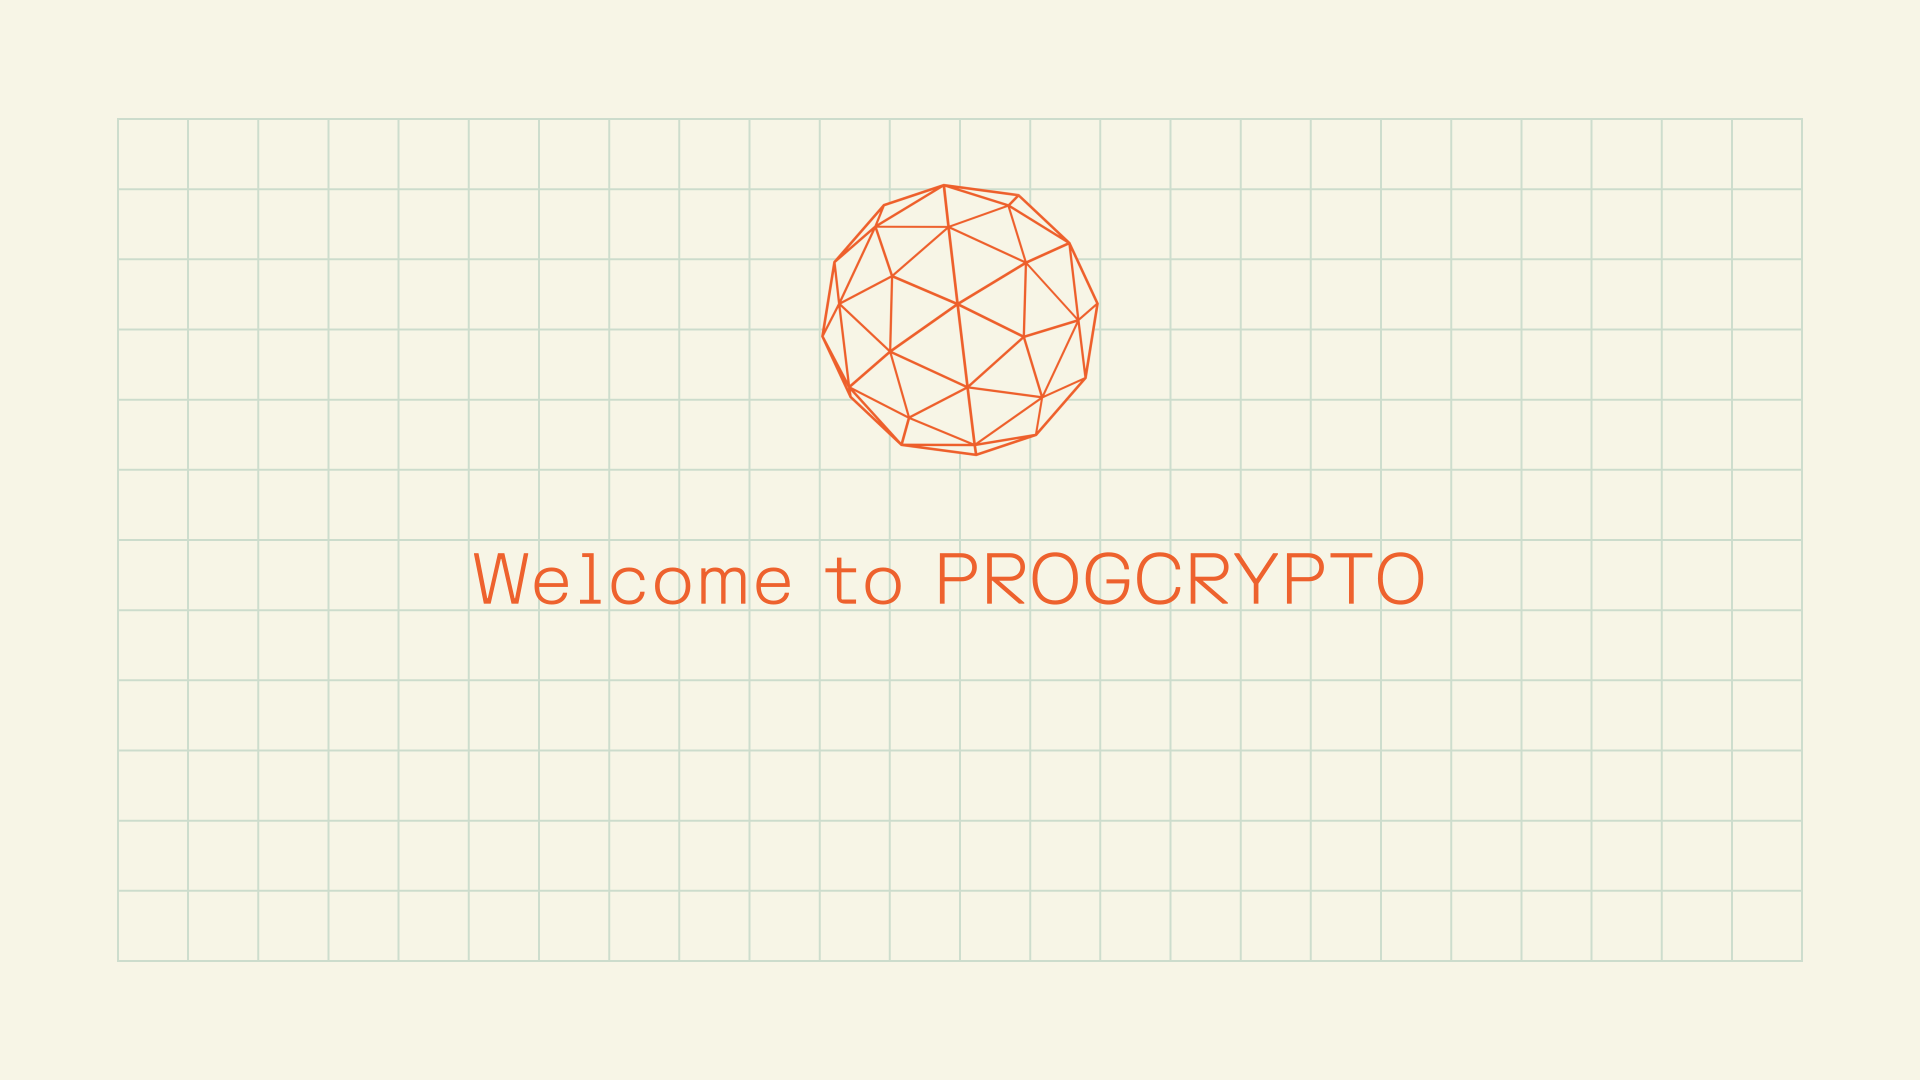
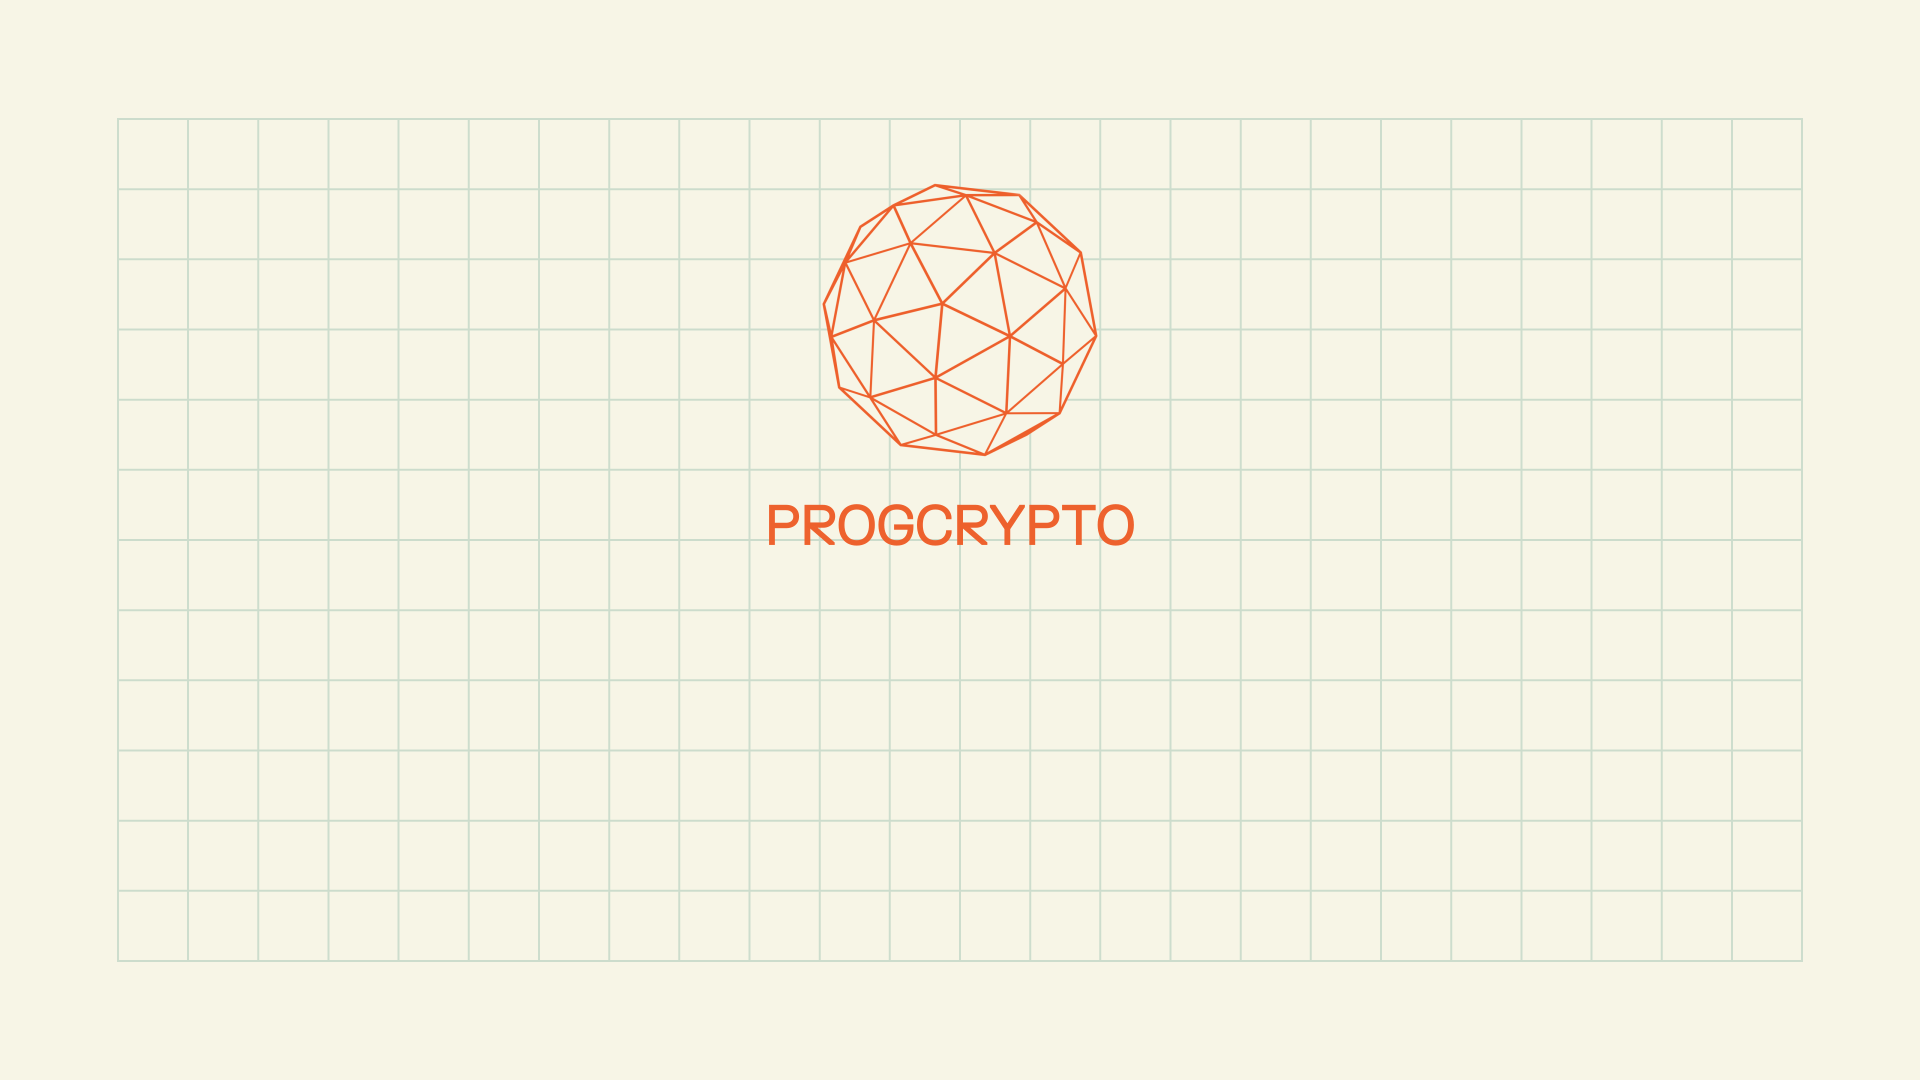
BG Changes to PROGCrypto

Changed region(s): [[0.25, 0.4583, 0.75, 0.5806], [0.4062, 0.1528, 0.5938, 0.4278]]

diff --git a/packages/tools/src/scripts/0xparc.ts b/packages/tools/src/scripts/0xparc.ts
@@ -1,0 +1,246 @@
+import { join } from 'path'
+import { bundle } from '@remotion/bundler'
+import { webpackOverride } from '../webpack-override'
+import { RenderMediaOnProgress, getCompositions, selectComposition, renderMedia, renderStill } from '@remotion/renderer'
+import { CONFIG } from 'utils/config'
+import { FileExists, UploadDrive, UploadOrUpdate } from 'services/slides'
+import { existsSync, mkdirSync, statSync } from 'fs'
+import { DevconnectEvents } from 'compositions/autonamous_worlds_assembly'
+
+const force = process.argv.slice(2).includes('--force')
+const local = process.argv.slice(2).includes('--local')
+const processArgs = process.argv.slice(2).filter(i => !i.startsWith('--'))
+const apiBaseUri = local ? 'http://localhost:3000/api' : 'https://app.streameth.org/api'
+const devconnectEvents = DevconnectEvents.map(i => ({ ...i, id: i.id.replaceAll('-', '_') }))
+
+start(processArgs)
+  .then(() => {
+    process.exit(0)
+  })
+  .catch((err) => {
+    console.log(err)
+    process.exit(1)
+  })
+
+async function start(args: string[]) {
+  console.log(`Run Remotion renderer in ${CONFIG.NODE_ENV} mode..`)
+  console.log('- API base uri', apiBaseUri)
+  console.log('- force rendering', force)
+
+  const res = await fetch(`${apiBaseUri}/events`)
+  let events = (await res.json()).filter((i: any) => i.archiveMode === false)
+    // filter for Devconnect events
+    .filter((event: any) => devconnectEvents.some(i => i.id === event.id)) // event.organizationId === 'devconnect'
+
+  console.log()
+  console.log('Events to render..')
+  events.forEach((i: any) => console.log('-', i.id))
+  console.log()
+
+  if (args.length > 0) {
+    const event = args[0]
+    events = events.filter((e: any) => e.id === event)
+  }
+
+  for (const event of events) {
+    await generateEventAssets(event)
+  }
+}
+
+async function generateEventAssets(event: any) {
+  console.log(`Generating assets for ${event.id}..`)
+  const bundled = await bundle({
+    entryPoint: join(process.cwd(), 'src', 'index.ts'),
+    webpackOverride: (config) => webpackOverride(config),
+  })
+
+  const compositions = (await getCompositions(bundled)).filter((c) => c.id.includes(event.id) || c.id.includes(event.id.replaceAll('_', '-')))
+  if (compositions.length === 0) {
+    console.log('No compositions found. Skip rendering')
+    return
+  }
+
+  const res = await fetch(`${apiBaseUri}/organizations/${event.organizationId}/events/${event.id}/sessions`)
+  const sessions = await res.json()
+  if (sessions.length === 0) {
+    console.log('No sessions found. Skip rendering')
+    return
+  }
+
+  let folderId = ''
+  if (event.dataExporter?.length > 0 && event.dataExporter[0].type === 'gdrive' && event.dataExporter[0].config) {
+    folderId = event.dataExporter[0].config.sheetId || event.dataExporter[0].config.driveId
+    console.log('- Google Drive data exporter', folderId)
+  }
+
+  if (!folderId) {
+    console.error('No Google Drive data exporter found. Skip rendering')
+    return
+  }
+
+  const eventFolder = join(CONFIG.ASSET_FOLDER, event.id)
+  mkdirSync(eventFolder, { recursive: true })
+
+  const eventType = devconnectEvents.find(e => e.id === event.id)?.type || '1'
+  console.log('- Event Composition Type', eventType)
+
+  // TODO: Kinda hacky solution to check invalid Image urls here.
+  // This should get fixed on data entry or import
+  const sessionsToProcess: any[] = []
+  for (const session of sessions) {
+    const s = {
+      id: session.id,
+      name: session.name,
+      start: session.start,
+      speakers: Array<any>(),
+    }
+
+    for (const speaker of session.speakers) {
+      const hasValidPhoto = await validImageUrl(speaker.photo)
+      s.speakers.push({
+        id: speaker.id,
+        name: speaker.name,
+        photo: hasValidPhoto ? speaker.photo : undefined,
+      })
+    }
+
+    sessionsToProcess.push(s)
+  }
+
+  console.log(`Render ${compositions.length} compositions for # ${sessions.length} sessions`)
+  for (let index = 0; index < sessionsToProcess.length; index++) {
+    const session = sessionsToProcess[index]
+    console.log(`Session # ${index + 1} - ${session.id}`)
+
+    try {
+      const inputProps = { type: eventType, id: event.id.replaceAll('_', '-'), session: session }
+
+      for (const composition of compositions) {
+        const inputComposition = await selectComposition({
+          serveUrl: bundled,
+          id: composition.id,
+          inputProps: inputProps,
+        })
+
+        // Render Stills
+        if (composition.durationInFrames === 1) {
+          const id = `${session.id}_social.png`
+          const type = 'image/png'
+          const socialFilePath = `${eventFolder}/${id}`
+
+          if (folderId) {
+            const fileExported = await FileExists(id, type, folderId) ?? false
+            if (!fileExported || force) {
+              const exists = fileExists(socialFilePath)
+              if (!exists || force) {
+                await renderStill({
+                  composition: inputComposition,
+                  serveUrl: bundled,
+                  output: socialFilePath,
+                  inputProps: inputProps,
+                })
+              }
+
+              upload(id, socialFilePath, type, folderId)
+            }
+          }
+        }
+
+        // Only render compositions that have frames
+        if (composition.durationInFrames > 1) {
+          const id = `${session.id}_intro.mp4`
+          const type = 'video/mp4'
+          const introFilePath = `${eventFolder}/${id}`
+
+          if (folderId) {
+            const fileExported = await FileExists(id, type, folderId) ?? false
+            if (!fileExported || force) {
+              const exists = fileExists(introFilePath)
+              if (!exists || force) {
+                await renderMedia({
+                  codec: 'h264',
+                  composition: inputComposition,
+                  serveUrl: bundled,
+                  outputLocation: introFilePath,
+                  inputProps,
+                  // onProgress,
+                })
+              }
+
+              upload(id, introFilePath, type, folderId)
+            }
+
+            // Generate a still from the same composition's last frame
+            const thumbnailId = `${session.id}_thumbnail.png`
+            const thumbnailType = 'image/png'
+            const thumbnailFilePath = `${eventFolder}/${thumbnailId}`
+            const thumbnailExported = await FileExists(thumbnailId, thumbnailType, folderId) ?? false
+
+            if (!thumbnailExported || force) {
+              const exists = fileExists(thumbnailFilePath)
+              if (!exists || force) {
+                await renderStill({
+                  composition: inputComposition,
+                  serveUrl: bundled,
+                  frame: composition.durationInFrames - 1,
+                  output: thumbnailFilePath,
+                  inputProps: inputProps,
+                })
+              }
+
+              upload(thumbnailId, thumbnailFilePath, thumbnailType, folderId)
+            }
+          }
+        }
+
+        // lastProgressPrinted = -1
+      }
+    } catch (err) {
+      console.log('Error rendering session', err)
+    }
+  }
+}
+
+function fileExists(path: string, fileSize = 100000) {
+  if (existsSync(path)) {
+    const stats = statSync(path)
+    // Making assumption that if file is bigger than a certain, it's an actual file
+    return stats.size > fileSize
+  }
+
+  return false
+}
+
+async function upload(id: string, path: string, type: string, folderId: string) {
+  // - CONFIG.GOOGLE_DRIVE_ID is main, root drive. Files are upload to their respective sub folder Ids
+  if (CONFIG.GOOGLE_DRIVE_ID) {
+    if (force) {
+      await UploadOrUpdate(id, path, type, folderId)
+      return
+    }
+
+    const exists = await FileExists(id, type, folderId)
+    if (!exists) {
+      await UploadDrive(id, path, type, folderId)
+    }
+  }
+}
+
+async function validImageUrl(url?: string) {
+  if (!url) return false
+
+  const res = await fetch(url)
+  const buff = await res.blob()
+
+  return buff.type.startsWith('image/')
+}
+
+// let lastProgressPrinted = -1
+// const onProgress: RenderMediaOnProgress = ({ progress }) => {
+//   const progressPercent = Math.floor(progress * 100)
+
+//   if (progressPercent > lastProgressPrinted) {
+//     console.log(`Rendering is ${progressPercent}% complete`)
+//     lastProgressPrinted = progressPercent
+//   }
+// }

diff --git a/packages/tools/src/compositions/index.tsx b/packages/tools/src/compositions/index.tsx
@@ -8,31 +8,34 @@ import {
 import { MOCK_SESSION } from '../utils/mocks'
 import { Fragment } from 'react'
 import { JoinVideos } from './join'
-// import {
-//   DevconnectEvents,
-//   DevconnectFrameRate,
-//   DevconnectIntroDuration,
-//   DevconnectOutroDuration,
-//   ProgCryptoFont_Reg,
-//   ProgCryptoFont_Med,
-//   Join,
-//   Intro,
-//   Social,
-// } from './progcrypto'
 import {
   DevconnectEvents,
   DevconnectFrameRate,
   DevconnectIntroDuration,
   DevconnectOutroDuration,
-  DevconnectISTFont,
+  ProgCryptoFont_Reg,
+  ProgCryptoFont_Med,
   Join,
   Intro,
-  Social,
-} from './autonamous_worlds_assembly'
+  Social
+} from './progcrypto'
+//   Social,
+// import {
+//   DevconnectEvents,
+//   DevconnectFrameRate,
+//   DevconnectIntroDuration,
+//   DevconnectOutroDuration,
+//   DevconnectISTFont,
+//   Join,
+//   Intro,
+//   Social,
+// } from './autonamous_worlds_assembly'
 
 export function Compositions() {
   const waitForFont = delayRender()
-  const font = DevconnectISTFont
+  // const font = DevconnectISTFont
+  const font = ProgCryptoFont_Reg
+  const font2 = ProgCryptoFont_Med
 
   font
     .load()
@@ -42,13 +45,13 @@ export function Compositions() {
     })
     .catch((err) => console.log('Error loading font', err))
 
-  // font2
-  //   .load()
-  //   .then(() => {
-  //     document.fonts.add(font2)
-  //     continueRender(waitForFont)
-  //   })
-  //   .catch((err) => console.log('Error loading font', err))
+  font2
+    .load()
+    .then(() => {
+      document.fonts.add(font2)
+      continueRender(waitForFont)
+    })
+    .catch((err) => console.log('Error loading font', err))
 
   return (
     <>

diff --git a/packages/tools/src/compositions/progcrypto/social.tsx b/packages/tools/src/compositions/progcrypto/social.tsx
@@ -51,7 +51,7 @@ export const Social: React.FC<Props> = ({ type, session, id }) => {
               className={titleClassName()}
               style={{
                 fontFamily: 'Grotesk Trial Medium',
-                transform: `translateY(110px)`,
+                transform: `translateY(80px)`,
               }}>
               {session.name}
             </h1>
@@ -64,7 +64,7 @@ export const Social: React.FC<Props> = ({ type, session, id }) => {
                     <div
                       key={i.id}
                       className="flex flex-col items-center gap-4"
-                      style={{ transform: `translateY(75px)` }}>
+                      style={{ transform: `translateY(55px)` }}>
                       <span className="text-xl font-medium w-32 text-center leading-normal">
                         {i.name}
                       </span>
